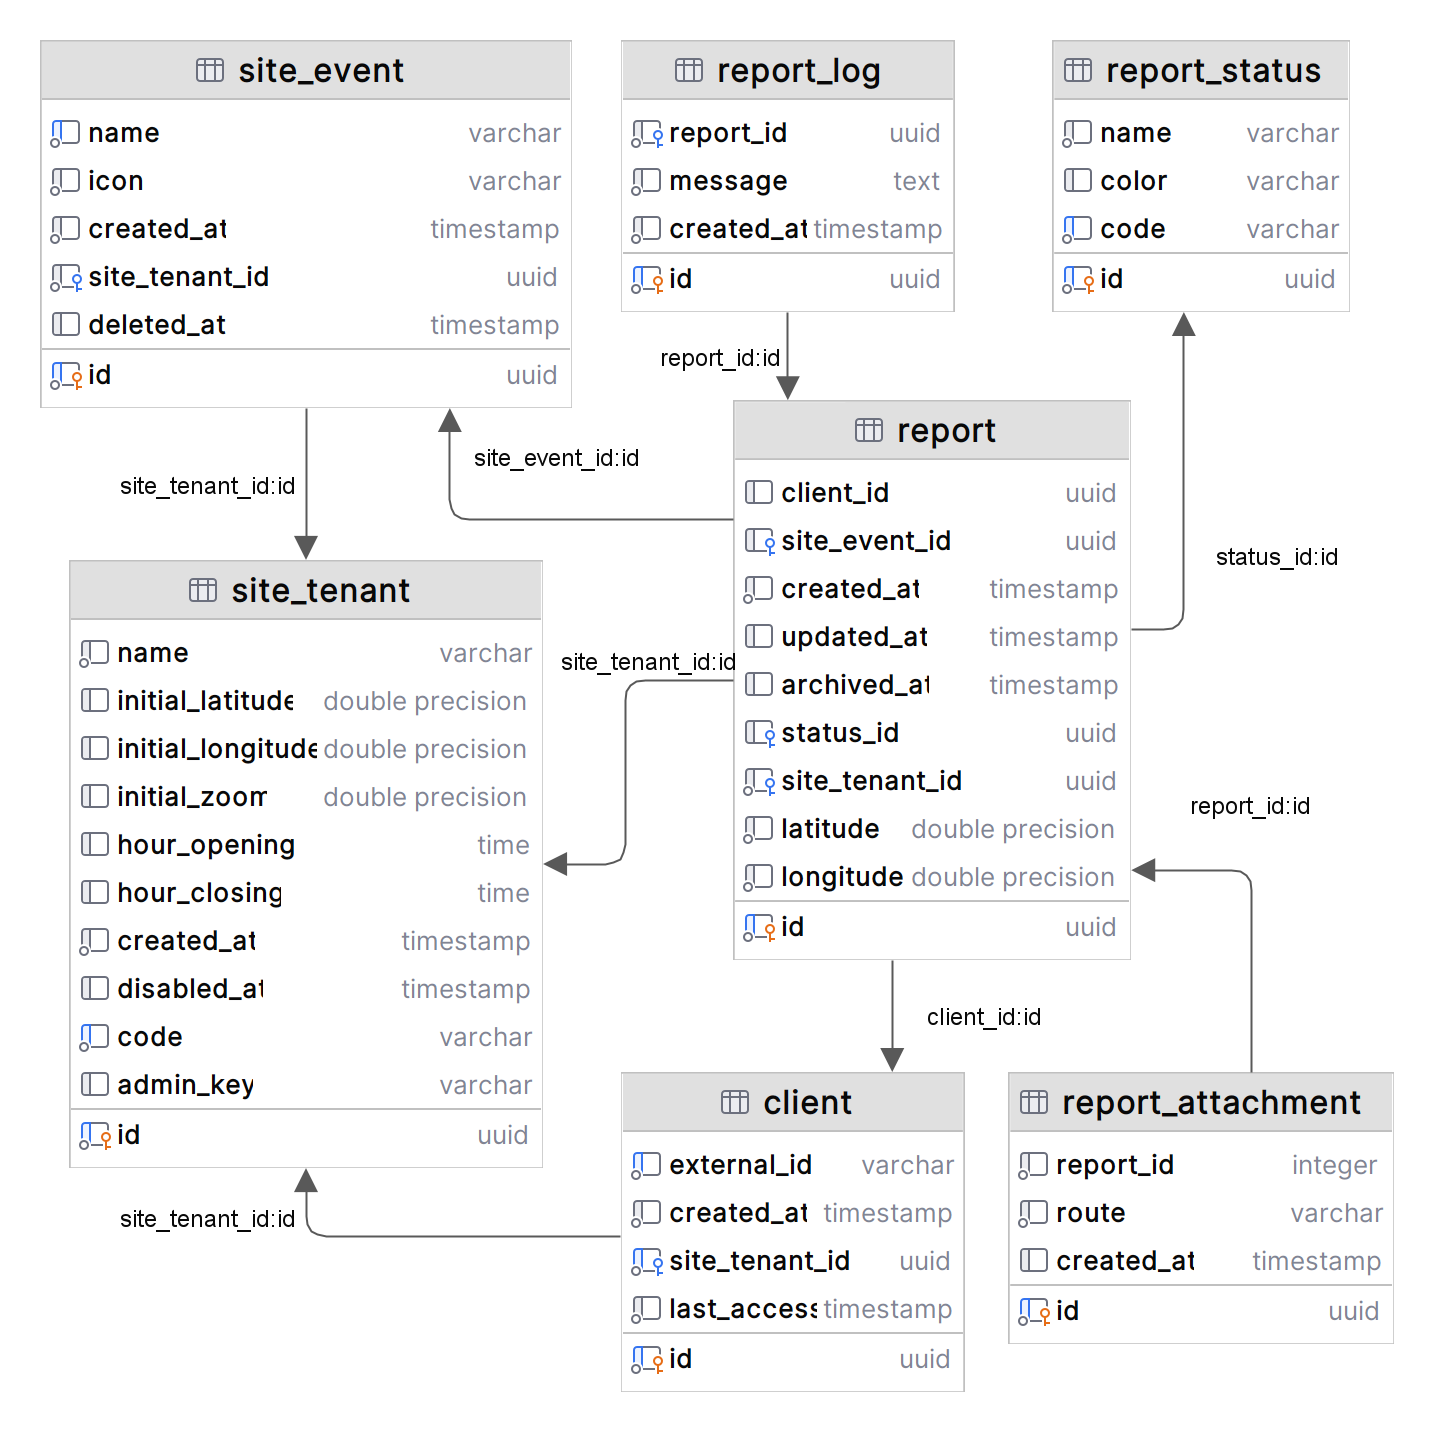
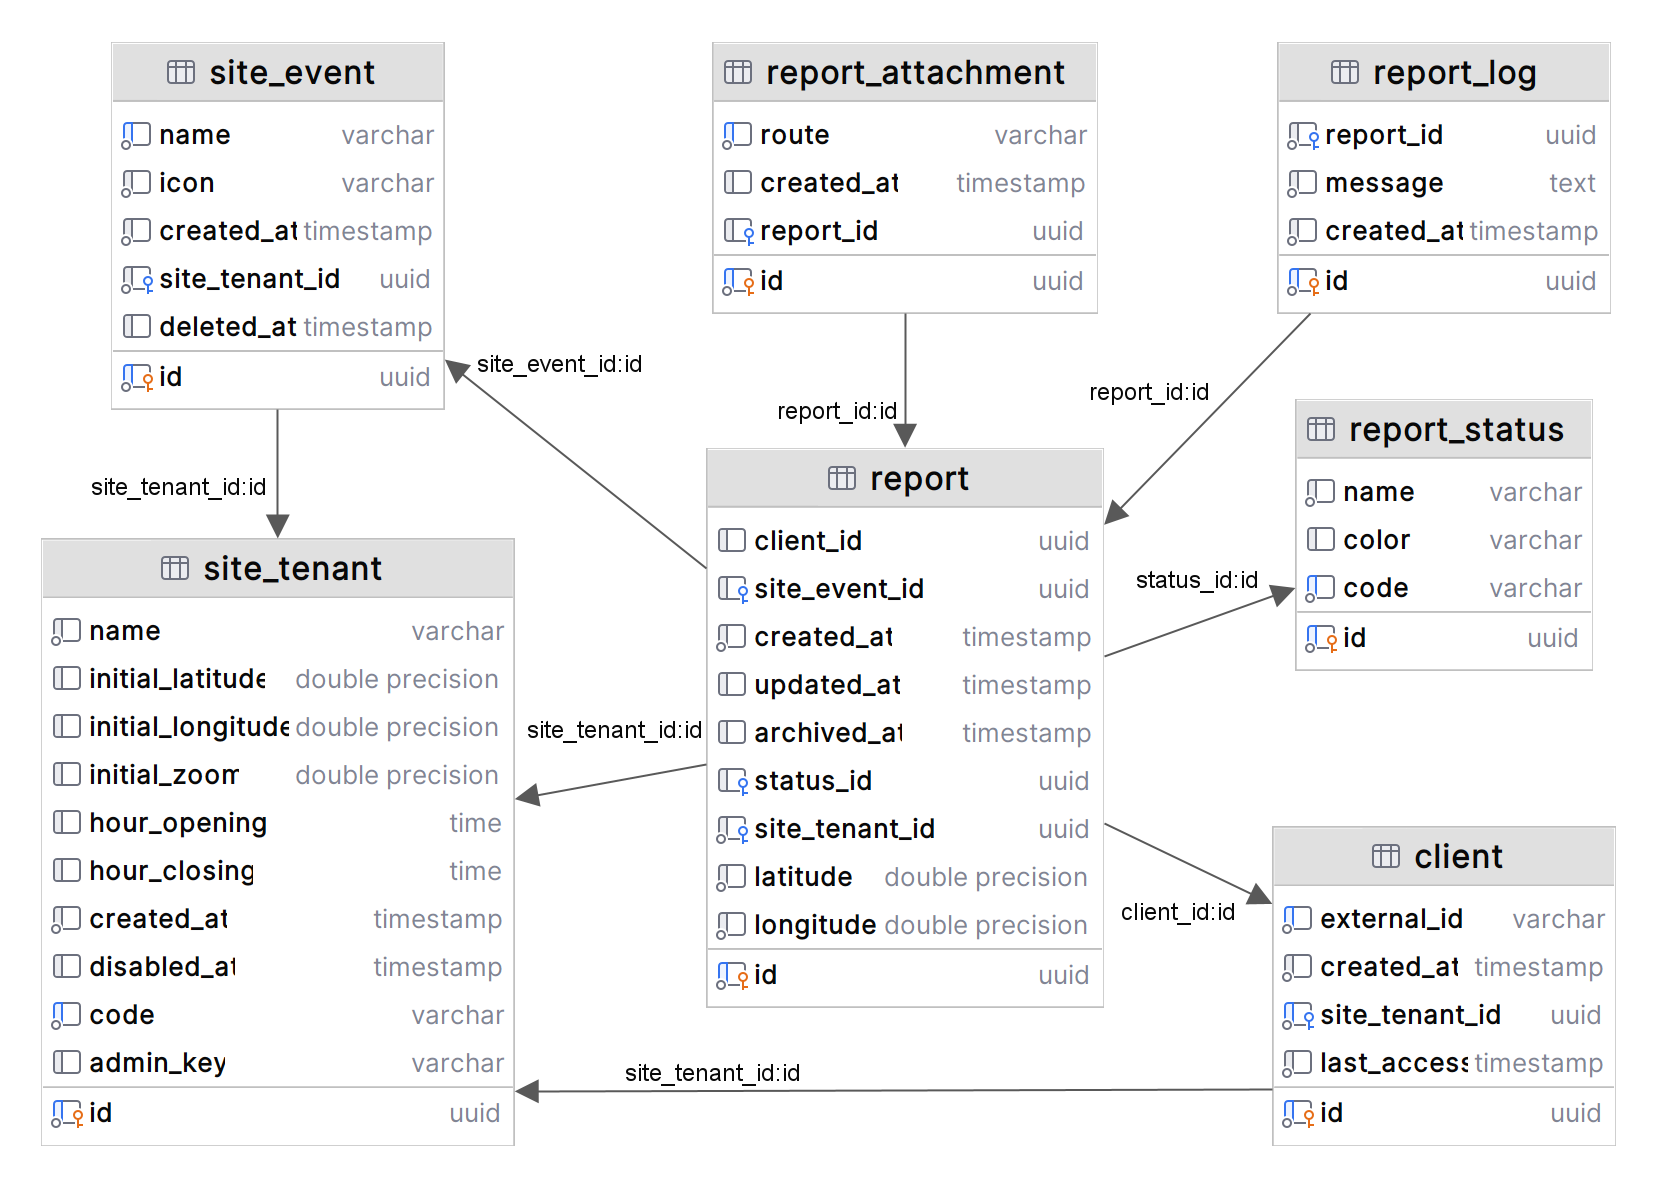
feat: improved attachments management

Changed region(s): [[0.0, 0.0, 0.9805, 0.9655], [0.8273, 0.5606, 0.9192, 0.5918]]

diff --git a/src/modules/report/ReportAttachments.tsx b/src/modules/report/ReportAttachments.tsx
@@ -6,6 +6,7 @@ import Heading from '@src/components/Heading';
 import Modal from "@src/components/Modal";
 import StatusWrapper from "@src/components/StatusWrapper";
 import { useDeleteAttachmentMutation, useGetAttachmentsQuery } from "@src/libraries/endpoints/report";
+import { useMemo } from "react";
 
 type Props = {
     report_id: any
@@ -29,22 +30,22 @@ export default function ReportAttachments({ report_id, allowDelete = false }: Pr
                                 <Modal renderButton={({ open }) =>
                                     <div className="flex flex-col justify-between items-stretch bg-slate-500 border border-slate-700 rounded-md min-h-40">
                                         <div className="grow pt-1 px-1">
-                                            <DocViewer
+                                            {useMemo(() => <DocViewer
                                                 config={{ header: { disableHeader: true } }}
                                                 documents={[{ uri: attachment.url, fileName: 'attachment', fileType: 'image/png' }]}
                                                 pluginRenderers={DocViewerRenderers}
-                                            />
+                                            />, [attachment])}
                                         </div>
                                         <div className="flex">
                                             <Button size="sm" color="slate" onClick={() => open()} className="grow px-1 py-1 text-xs">Veure</Button>
                                             {allowDelete && <Button size="sm" onClick={async () => deleteAttachment({ route: attachment.url })} className="px-1 py-1 text-xs bg-red-700 hover:bg-red-900">&times;</Button>}
                                         </div>
                                     </div>}>
-                                    <DocViewer
+                                    {useMemo(() => <DocViewer
                                         config={{ header: { disableHeader: true } }}
                                         documents={[{ uri: attachment.url, fileName: 'attachment', fileType: 'image/png' }]}
                                         pluginRenderers={DocViewerRenderers}
-                                    />
+                                    />, [attachment])}
                                 </Modal>
                             </div>
                         )) : <p>No hi ha documents adjunts</p>}

diff --git a/src/app/api/report/[report_id]/attachment/route.ts b/src/app/api/report/[report_id]/attachment/route.ts
@@ -1,4 +1,5 @@
 import { getClientFromHeader } from '@src/modules/client/client-services';
+import { deleteAttachment } from '@src/modules/report/attachment/report-attachment-services';
 import { getReport } from '@src/modules/report/report-services';
 import { getTenantFromPathname } from '@src/modules/site-tenant/site-tenant-services';
 import { del, list } from '@vercel/blob';
@@ -26,7 +27,7 @@ export async function GET(request: Request, { params: { report_id } }) {
     }
 }
 
-export async function DELETE(request: Request) {
+export async function DELETE(request: Request, { params: { report_id } }) {
     try {
         const tenant = await getTenantFromPathname(request)
         if (!tenant.isAdmin) throw new Error('Unauthorized')
@@ -37,6 +38,7 @@ export async function DELETE(request: Request) {
         if (!route.includes(`${tenant.id}/reports/`)) throw new Error('Invalid route')
 
         await del(route)
+        await deleteAttachment(report_id, route)
 
         return Response.json({ message: 'File deleted' })
     } catch (e: any) {

diff --git a/src/app/api/report/[report_id]/attachment/upload/route.ts b/src/app/api/report/[report_id]/attachment/upload/route.ts
@@ -1,4 +1,5 @@
 import { getClientFromHeader } from '@src/modules/client/client-services';
+import { createAttachment } from '@src/modules/report/attachment/report-attachment-services';
 import { getReport } from '@src/modules/report/report-services';
 import { getTenantFromPathname } from '@src/modules/site-tenant/site-tenant-services';
 import { put } from '@vercel/blob';
@@ -16,9 +17,12 @@ export async function POST(request: Request, { params: { report_id } }) {
         if (!report) throw new Error('Report not found')
 
         const timestamp = new Date().getTime();
-        const blob = await put(`${tenant.id}/reports/${report_id}/${timestamp}`, await request.body, {
+        const route = `${tenant.id}/reports/${report_id}/${timestamp}`;
+        const blob = await put(route, await request.body, {
             access: 'public',
         });
+
+        await createAttachment(report_id, route);
 
         return Response.json(blob.url);
     } catch (e: any) {

diff --git a/src/modules/report/attachment/report-attachment-services.ts b/src/modules/report/attachment/report-attachment-services.ts
@@ -1,0 +1,21 @@
+import { Prisma } from "@src/libraries/database"
+
+export const createAttachment = async (report_id: string, route: string) => {
+    const database = Prisma
+    return await database.report_attachment.create({
+        data: {
+            report_id: report_id,
+            route: route
+        }
+    })
+}
+
+export const deleteAttachment = async (report_id: string, route: string) => {
+    const database = Prisma
+    return await database.report_attachment.delete({
+        where: {
+            report_id: report_id,
+            route: route
+        }
+    })
+}
